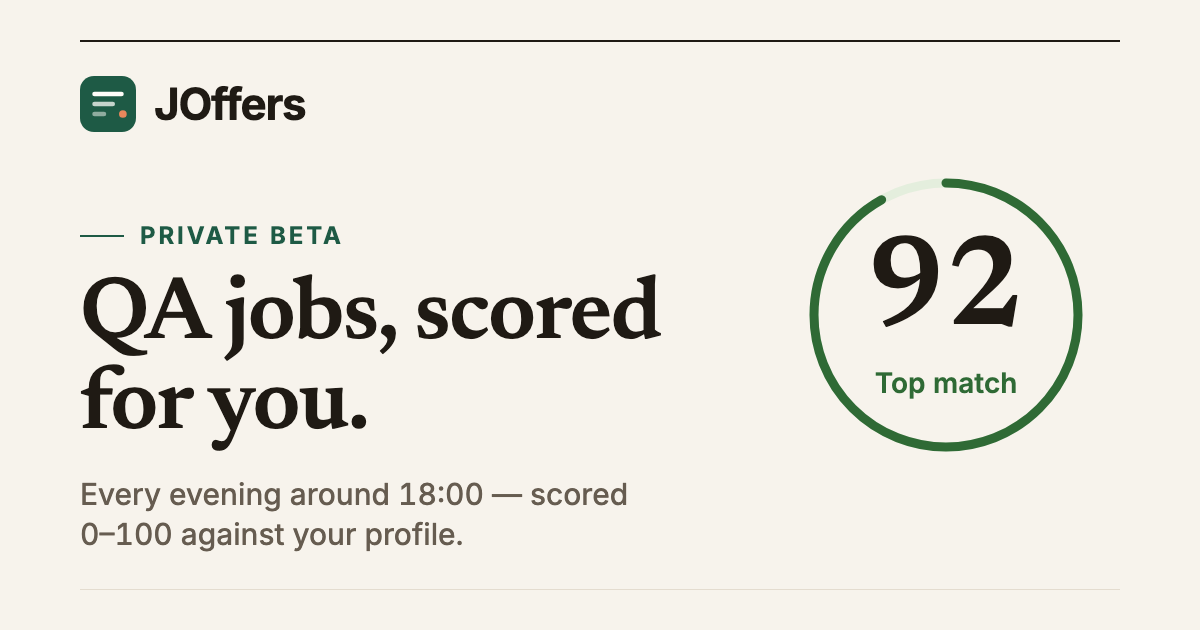
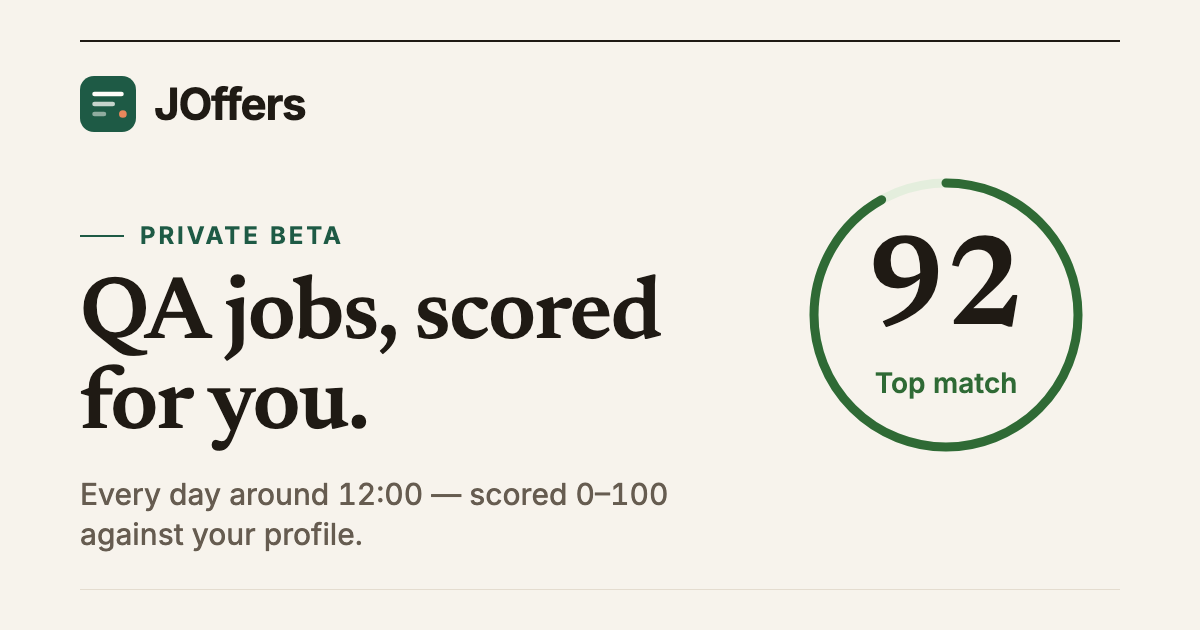
Move the daily fetch to 12:00 Europe/Warsaw
The owner set the cron-job.org trigger to 12:00 and prefers it. A midday
fetch (from 11:00 on) now counts as the day's run, so GitHub's late
fallback cron (moved to 11:41) skips instead of sending a second
e-mail in the evening. App, landing, meta and og.png copy say "around
12:00"; "next fetch" switches to tomorrow at 12:00.

Changed region(s): [[0.0617, 0.754, 0.555, 0.8746]]

diff --git a/web/src/i18n/pl.ts b/web/src/i18n/pl.ts
@@ -79,7 +79,7 @@ export const pl: Messages = {
     signIn: 'Zaloguj się',
     badge: 'Zamknięta beta',
     title: 'Oferty QA ocenione pod Ciebie.',
-    lead: 'Codziennie około 18:00 JOffers przegląda polskie i zagraniczne serwisy z ofertami pracy, ocenia każdą ofertę w skali 0–100 pod kątem Twojego profilu i pokazuje, dlaczego.',
+    lead: 'Codziennie około 12:00 JOffers przegląda polskie i zagraniczne serwisy z ofertami pracy, ocenia każdą ofertę w skali 0–100 pod kątem Twojego profilu i pokazuje, dlaczego.',
     tryDemo: 'Wypróbuj demo na żywo',
     demoNote: 'Przykładowe dane, bez rejestracji.',
     preview: 'Podgląd listy ofert JOffers',
@@ -90,8 +90,8 @@ export const pl: Messages = {
         body: 'Każda oferta dostaje od 0 do 100 punktów względem Twojego profilu, z rozbiciem na to, skąd wziął się każdy punkt.',
       },
       daily: {
-        title: 'Nowe oferty około 18:00',
-        body: 'Jedno pobranie każdego wieczoru. Otwierasz JOffers i zaczynasz od tego, co nowe od wczoraj.',
+        title: 'Nowe oferty około 12:00',
+        body: 'Jedno pobranie dziennie, w południe. Otwierasz JOffers i zaczynasz od tego, co nowe od wczoraj.',
       },
       track: {
         title: 'Każda aplikacja pod kontrolą',
@@ -206,7 +206,7 @@ export const pl: Messages = {
     clearFilters: 'Wyczyść filtry',
     showAll: 'Pokaż wszystkie oferty',
     emptyNew: 'Brak nowych ofert z ostatniego pobrania',
-    nextFetch: (today) => (today ? 'Następne pobranie dziś około 18:00' : 'Następne pobranie jutro około 18:00'),
+    nextFetch: (today) => (today ? 'Następne pobranie dziś około 12:00' : 'Następne pobranie jutro około 12:00'),
     showRecent: 'Pokaż ostatnie 3 dni',
     newBadge: 'Nowa',
   },

diff --git a/web/src/i18n/en.ts b/web/src/i18n/en.ts
@@ -163,7 +163,7 @@ export const en = {
     signIn: 'Sign in',
     badge: 'Private beta',
     title: 'QA jobs, scored for you.',
-    lead: 'Every evening around 18:00 JOffers checks Polish and international job boards, scores each offer 0–100 against your profile and shows why.',
+    lead: 'Every day around 12:00 JOffers checks Polish and international job boards, scores each offer 0–100 against your profile and shows why.',
     tryDemo: 'Try the live demo',
     demoNote: 'Sample data, no sign-up.',
     preview: 'Preview of the JOffers offer list',
@@ -174,8 +174,8 @@ export const en = {
         body: 'Every offer gets 0–100 against your profile, with a breakdown of where each point came from.',
       },
       daily: {
-        title: 'New offers around 18:00',
-        body: 'One fetch every evening. Open JOffers and start with what’s new since yesterday.',
+        title: 'New offers around 12:00',
+        body: 'One fetch every day at midday. Open JOffers and start with what’s new since yesterday.',
       },
       track: {
         title: 'Track every application',
@@ -295,7 +295,7 @@ export const en = {
     showAll: 'Show all offers',
     emptyNew: 'No new offers from the last fetch',
     // Warsaw time, when the scheduled fetch runs.
-    nextFetch: (today: boolean) => (today ? 'Next fetch today around 18:00' : 'Next fetch tomorrow around 18:00'),
+    nextFetch: (today: boolean) => (today ? 'Next fetch today around 12:00' : 'Next fetch tomorrow around 12:00'),
     showRecent: 'Show last 3 days',
     // Sentence case; the badge draws it in capitals (§2.4).
     newBadge: 'New',

diff --git a/web/e2e/states.spec.ts b/web/e2e/states.spec.ts
@@ -2,7 +2,7 @@ import { expect, test } from '@playwright/test'
 import { mockSupabase, NEW_IDS, offer, OFFERS, signIn } from './supabase-mock'
 
 // The list's states (plan §4.10) and the New view's edges (§4.5), on a fixed clock (§6):
-// 10:00 in Warsaw, so the next fetch is "today around 18:00" and every age is the same each run.
+// 10:00 in Warsaw, so the next fetch is "today around 12:00" and every age is the same each run.
 const FIXED_NOW = Date.parse('2026-10-08T10:00:00+02:00')
 
 test.beforeEach(async ({ page }) => {
@@ -35,7 +35,7 @@ test('an empty New view names the next fetch, and Show last 3 days widens it', a
   await page.goto('./')
 
   await expect(page.getByRole('heading', { name: 'No new offers from the last fetch' })).toBeVisible()
-  await expect(page.getByText('Next fetch today around 18:00')).toBeVisible()
+  await expect(page.getByText('Next fetch today around 12:00')).toBeVisible()
   await expect(page).toHaveTitle('JOffers')
   await page.getByRole('button', { name: 'Show last 3 days' }).click()
 
@@ -96,7 +96,7 @@ test('with nothing new and a failed board, the chip and Refresh are still there'
   const reloaded = page.waitForRequest((request) => request.url().includes('/rest/v1/jobs?'))
   await refresh.click()
   await reloaded
-  await expect(page.getByText('Next fetch today around 18:00')).toBeVisible()
+  await expect(page.getByText('Next fetch today around 12:00')).toBeVisible()
   await expect(page.locator('.list-skeleton')).toHaveCount(0)
 })
 

diff --git a/web/index.html b/web/index.html
@@ -53,7 +53,7 @@
       })()
     </script>
     <title>JOffers</title>
-    <meta name="description" content="Every evening around 18:00 JOffers checks job boards, scores each QA offer 0–100 against your profile and shows why." />
+    <meta name="description" content="Every day around 12:00 JOffers checks job boards, scores each QA offer 0–100 against your profile and shows why." />
     <!-- Safari before 26 ignores SVG favicons, so it takes the PNG (the same mark).
          The usual order: the sized PNG first, so browsers with SVG support still prefer it. -->
     <link rel="icon" type="image/png" sizes="32x32" href="/favicon-32.png" />
@@ -64,7 +64,7 @@
     <meta property="og:type" content="website" />
     <meta property="og:site_name" content="JOffers" />
     <meta property="og:title" content="JOffers — QA jobs, scored for you." />
-    <meta property="og:description" content="Every evening around 18:00 JOffers checks job boards, scores each QA offer 0–100 against your profile and shows why." />
+    <meta property="og:description" content="Every day around 12:00 JOffers checks job boards, scores each QA offer 0–100 against your profile and shows why." />
     <meta property="og:url" content="%SITE_URL%" />
     <meta property="og:image" content="%SITE_URL%og.png" />
     <meta property="og:image:width" content="1200" />

diff --git a/web/src/lib/batch.ts b/web/src/lib/batch.ts
@@ -35,14 +35,14 @@ export function inProgress(offers: readonly Offer[]): { preparing: number; activ
   return count
 }
 
-// The daily fetch starts at 17:45 in Warsaw (cron-job.org → daily-fetch.yml) and is done
-// before 18:00, so "today" holds until 18:00.
-export const FETCH_HOUR = 18
+// The daily fetch starts at 12:00 in Warsaw (cron-job.org → daily-fetch.yml) and takes a
+// few minutes, so "today" holds until 12:00.
+export const FETCH_HOUR = 12
 export const FETCH_TIME_ZONE = 'Europe/Warsaw'
 
 const warsawHour = new Intl.DateTimeFormat('en-GB', { timeZone: FETCH_TIME_ZONE, hour: 'numeric', hourCycle: 'h23' })
 
-// Whether the next fetch is today in Warsaw ("Next fetch today around 18:00"), else tomorrow.
+// Whether the next fetch is today in Warsaw ("Next fetch today around 12:00"), else tomorrow.
 export function nextFetchToday(now: number = Date.now()): boolean {
   const hour = Number(warsawHour.formatToParts(now).find((part) => part.type === 'hour')?.value)
   return hour < FETCH_HOUR

diff --git a/web/src/features/demo/fixtures.ts b/web/src/features/demo/fixtures.ts
@@ -4,7 +4,7 @@ import type { Dashboard, FetchRun, Offer, OfferDetails, ScoringProfile, Status }
 
 // The demo's sample data (§4.11) and the landing's phone preview. Every company, board and
 // person here is made up: no real board is named on public pages until the legal review
-// (§8 Q7). Times are relative to `now`, so the demo always looks like this evening's fetch,
+// (§8 Q7). Times are relative to `now`, so the demo always looks like today's fetch,
 // and the prerendered preview ages the same way it does in the browser.
 
 const HOUR = 3_600_000
@@ -309,7 +309,7 @@ const SCORING_PROFILE: ScoringProfile = {
   scoring_version: 2,
 }
 
-// 'YYYY-MM-DD' in Warsaw: the demo's scores were refreshed with this evening's fetch.
+// 'YYYY-MM-DD' in Warsaw: the demo's scores were refreshed with today's fetch.
 const warsawDay = (time: number) =>
   new Intl.DateTimeFormat('en-CA', { timeZone: 'Europe/Warsaw', year: 'numeric', month: '2-digit', day: '2-digit' }).format(time)
 

diff --git a/web/src/lib/batch.test.ts b/web/src/lib/batch.test.ts
@@ -40,13 +40,13 @@ describe('the New batch', () => {
   })
 })
 
-describe('nextFetchToday (18:00 Europe/Warsaw)', () => {
+describe('nextFetchToday (12:00 Europe/Warsaw)', () => {
   test.each([
     // CEST (UTC+2) and CET (UTC+1): the cut-off follows Warsaw time, not UTC.
-    ['2026-10-08T15:59:00Z', true],
-    ['2026-10-08T16:00:00Z', false],
-    ['2026-12-08T16:59:00Z', true],
-    ['2026-12-08T17:00:00Z', false],
+    ['2026-10-08T09:59:00Z', true],
+    ['2026-10-08T10:00:00Z', false],
+    ['2026-12-08T10:59:00Z', true],
+    ['2026-12-08T11:00:00Z', false],
     ['2026-12-08T23:30:00Z', true],
   ])('%s → today %s', (iso, today) => {
     expect(nextFetchToday(Date.parse(iso))).toBe(today)

diff --git a/web/src/i18n/messages.test.ts b/web/src/i18n/messages.test.ts
@@ -68,7 +68,7 @@ describe('English copy the current e2e relies on', () => {
 
   test('states (§4.10)', () => {
     expect(en.offers.emptyNew).toBe('No new offers from the last fetch')
-    expect([true, false].map(en.offers.nextFetch)).toEqual(['Next fetch today around 18:00', 'Next fetch tomorrow around 18:00'])
+    expect([true, false].map(en.offers.nextFetch)).toEqual(['Next fetch today around 12:00', 'Next fetch tomorrow around 12:00'])
     expect(en.offers.showRecent).toBe('Show last 3 days')
     expect(en.offers.empty).toBe('No offers match these filters')
     expect(en.batch.reviewed(1, 2)).toBe('Reviewed 1 of 2')

diff --git a/web/src/dev/sections/Foundations.tsx b/web/src/dev/sections/Foundations.tsx
@@ -20,7 +20,7 @@ const TYPE = [
   { token: 'h3', sample: 'Why 75?' },
   { token: 'h4', sample: 'Requirements' },
   { token: 'title', sample: 'QA Automation Engineer' },
-  { token: 'body-lg', sample: 'Every evening at 18:00 JOffers checks the boards and scores each offer.' },
+  { token: 'body-lg', sample: 'Every day around 12:00 JOffers checks the boards and scores each offer.' },
   { token: 'body', sample: '2 new · fetched 2 h ago' },
   { token: 'sm', sample: 'Acme · Remote · B2B · Board A' },
   { token: 'xs', sample: 'Private beta' },

diff --git a/web/src/dev/sections/Display.tsx b/web/src/dev/sections/Display.tsx
@@ -150,7 +150,7 @@ export function DisplaySections() {
             title="No new offers from the last fetch"
             actions={<Button variant="secondary">Show last 3 days</Button>}
           >
-            Next fetch today at 18:00.
+            Next fetch today around 12:00.
           </EmptyState>
           <EmptyState
             className="kit-frame"

diff --git a/tests/test_schedule.py b/tests/test_schedule.py
@@ -2,15 +2,17 @@ from datetime import datetime, timezone
 
 from job_finder.schedule import daily_fetch_done
 
-# 19:30 in Warsaw (CEST, UTC+2).
-NOW = datetime(2026, 10, 13, 17, 30, tzinfo=timezone.utc)
+# 14:30 in Warsaw (CEST, UTC+2).
+NOW = datetime(2026, 10, 13, 12, 30, tzinfo=timezone.utc)
 
 
-def test_evening_fetch_today_counts_as_done():
-    assert daily_fetch_done("2026-10-13T15:45:00+00:00", NOW)
+def test_midday_fetch_today_counts_as_done():
+    # 12:03 Warsaw.
+    assert daily_fetch_done("2026-10-13T10:03:00+00:00", NOW)
 
 
-def test_morning_manual_fetch_does_not_stop_the_evening_run():
+def test_morning_manual_fetch_does_not_stop_the_midday_run():
+    # 09:00 Warsaw.
     assert not daily_fetch_done("2026-10-13T07:00:00+00:00", NOW)
 
 

diff --git a/job_finder/cli.py b/job_finder/cli.py
@@ -25,7 +25,7 @@ def main():
     summary_cmd = sub.add_parser("notify-summary", help="E-mail a summary of the offers new in the last fetch")
     summary_cmd.add_argument("--hours", type=int, default=24,
                              help="Fallback window when the last fetch's new ids aren't recorded")
-    sub.add_parser("daily-due", help="Print 'yes' unless today's evening fetch already ran")
+    sub.add_parser("daily-due", help="Print 'yes' unless today's midday fetch already ran")
     args = parser.parse_args()
 
     store = JobStore()
